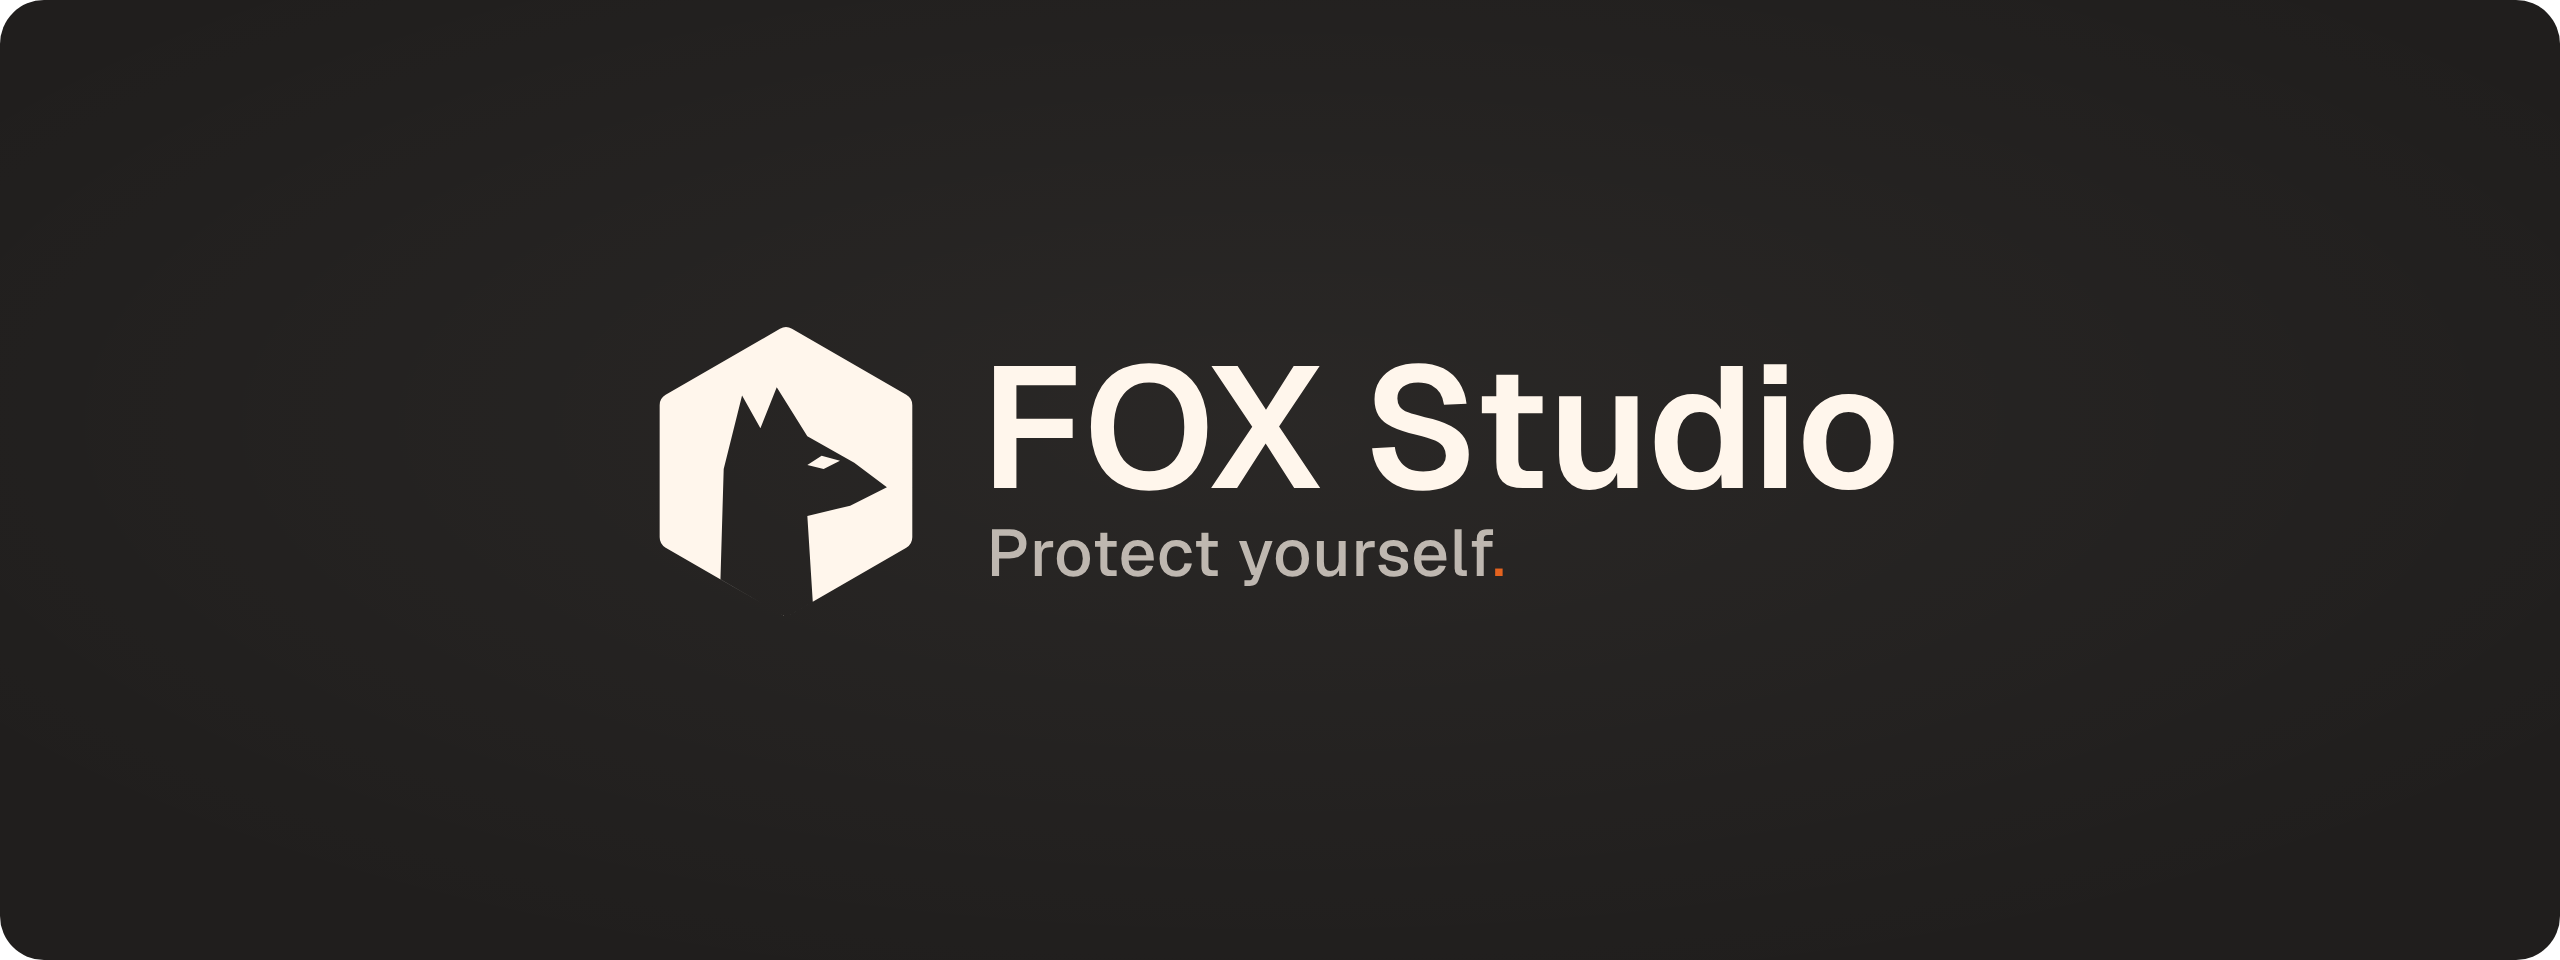
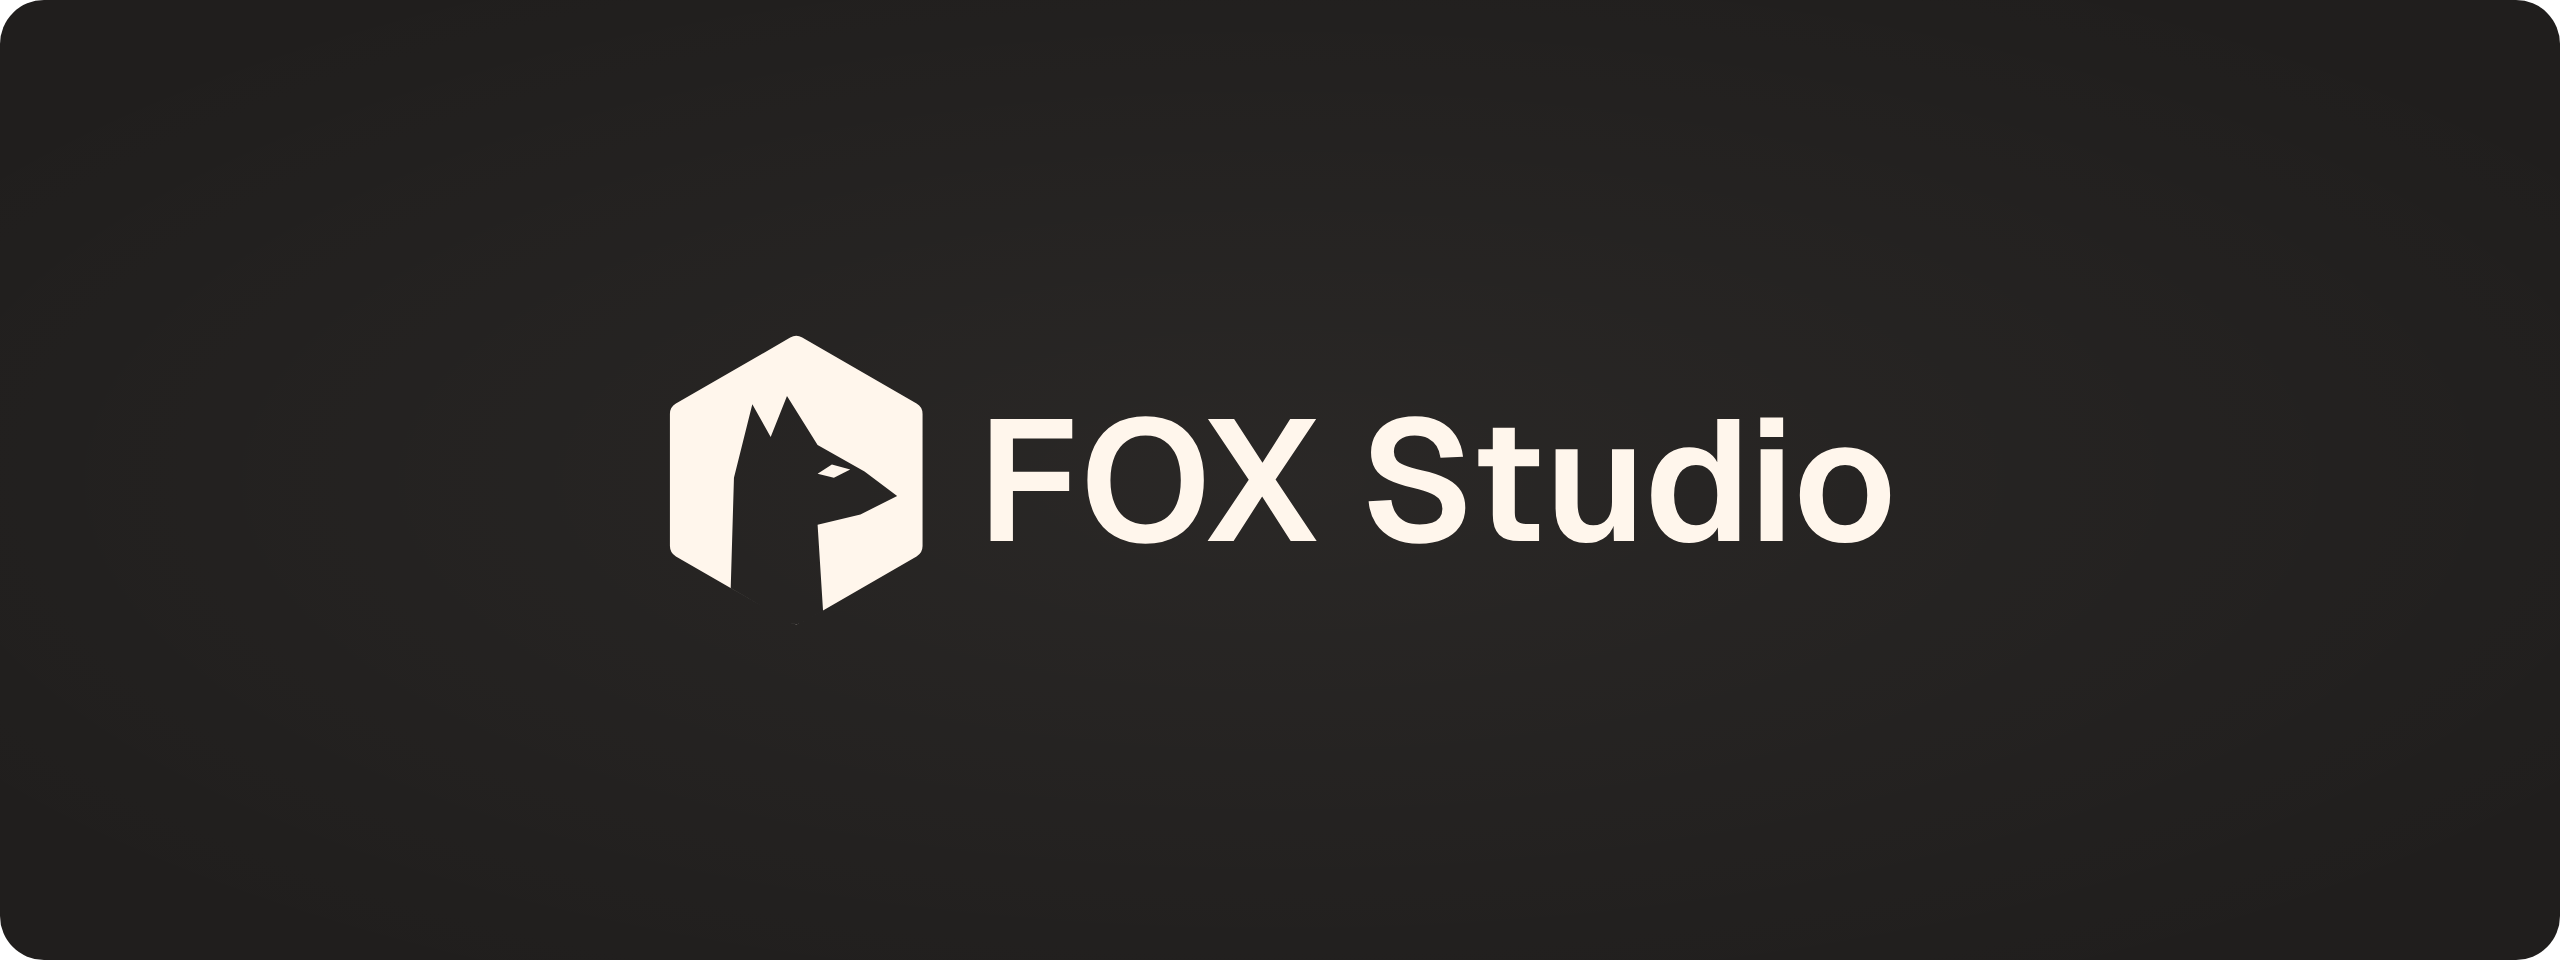
feat(assets): a abertura nova, PROTEGER em dez línguas
No lugar das quatro cenas, uma palavra por vez no centro, em corte seco e
cada vez mais rápido: PROTEGER, PROTECT, PROTÉGER, SCHÜTZEN, PROTEGGERE,
ЗАЩИЩАТЬ, 守る, 保护, حماية, रक्षा करना. Depois a tela escura e só a logo
e o nome FOX Studio. Ciclo de 10 s, 19,7 KB, todo o texto em contorno
(Geist e Noto Sans, OFL), sem JavaScript e sem arquivo de fora.

O quadro final (PNG de reserva) foi regerado, e o alt dos dois READMEs
descreve a animação nova. O resto do texto não muda.

Claude-Session: https://claude.ai/code/session_01Kr8VBLqgibfrJcXz8zNcAx

Changed region(s): [[0.25, 0.3438, 0.75, 0.625]]

diff --git a/README.pt-BR.md b/README.pt-BR.md
@@ -1,7 +1,7 @@
 <p align="center">
   <picture>
     <source media="(prefers-reduced-motion: reduce)" srcset="assets/protect-yourself-final.png">
-    <img src="assets/protect-yourself.svg" width="100%" alt="Abertura animada em fundo escuro. A frase “Protect yourself.” aparece. O ponto final laranja da frase passa então por quatro cenas abstratas e curtas: uma caixa que se fecha em volta dele (contido), uma rede que se reduz a uma linha só (uma saída só), um cadeado que se tranca (a chave fica com uma pessoa) e um registro que só cresce (nada se apaga). Termina na logo do FOX Studio, uma raposa dentro de um hexágono, com o nome FOX Studio e a frase “Protect yourself.”">
+    <img src="assets/protect-yourself.svg" width="100%" alt="Abertura animada em fundo escuro. Uma palavra por vez no centro da tela, em cortes secos cada vez mais rápidos: a palavra “proteger” em dez línguas, começando por PROTEGER (português, em laranja) e PROTECT (inglês), depois francês, alemão, italiano, russo, japonês, chinês, árabe e hindi. A tela fica escura por um instante, e termina na logo do FOX Studio, uma raposa dentro de um hexágono, com o nome FOX Studio.">
   </picture>
 </p>
 

diff --git a/README.md b/README.md
@@ -1,7 +1,7 @@
 <p align="center">
   <picture>
     <source media="(prefers-reduced-motion: reduce)" srcset="assets/protect-yourself-final.png">
-    <img src="assets/protect-yourself.svg" width="100%" alt="Animated opening on a dark background. The words “Protect yourself.” appear. The orange full stop of the sentence then travels through four short abstract scenes: a box closing around it (contained), a network collapsing to a single line (one way out), a padlock locking (a person holds the key) and a log that only grows (nothing is erased). It ends on the FOX Studio logo, a fox inside a hexagon, with the name FOX Studio and the line “Protect yourself.”">
+    <img src="assets/protect-yourself.svg" width="100%" alt="Animated opening on a dark background. One word at a time in the centre of the screen, in hard cuts that get faster: the word “protect” in ten languages, starting with PROTEGER (Portuguese, in orange) and PROTECT (English), then French, German, Italian, Russian, Japanese, Chinese, Arabic and Hindi. The screen goes dark for a moment, and it ends on the FOX Studio logo, a fox inside a hexagon, with the name FOX Studio.">
   </picture>
 </p>
 
